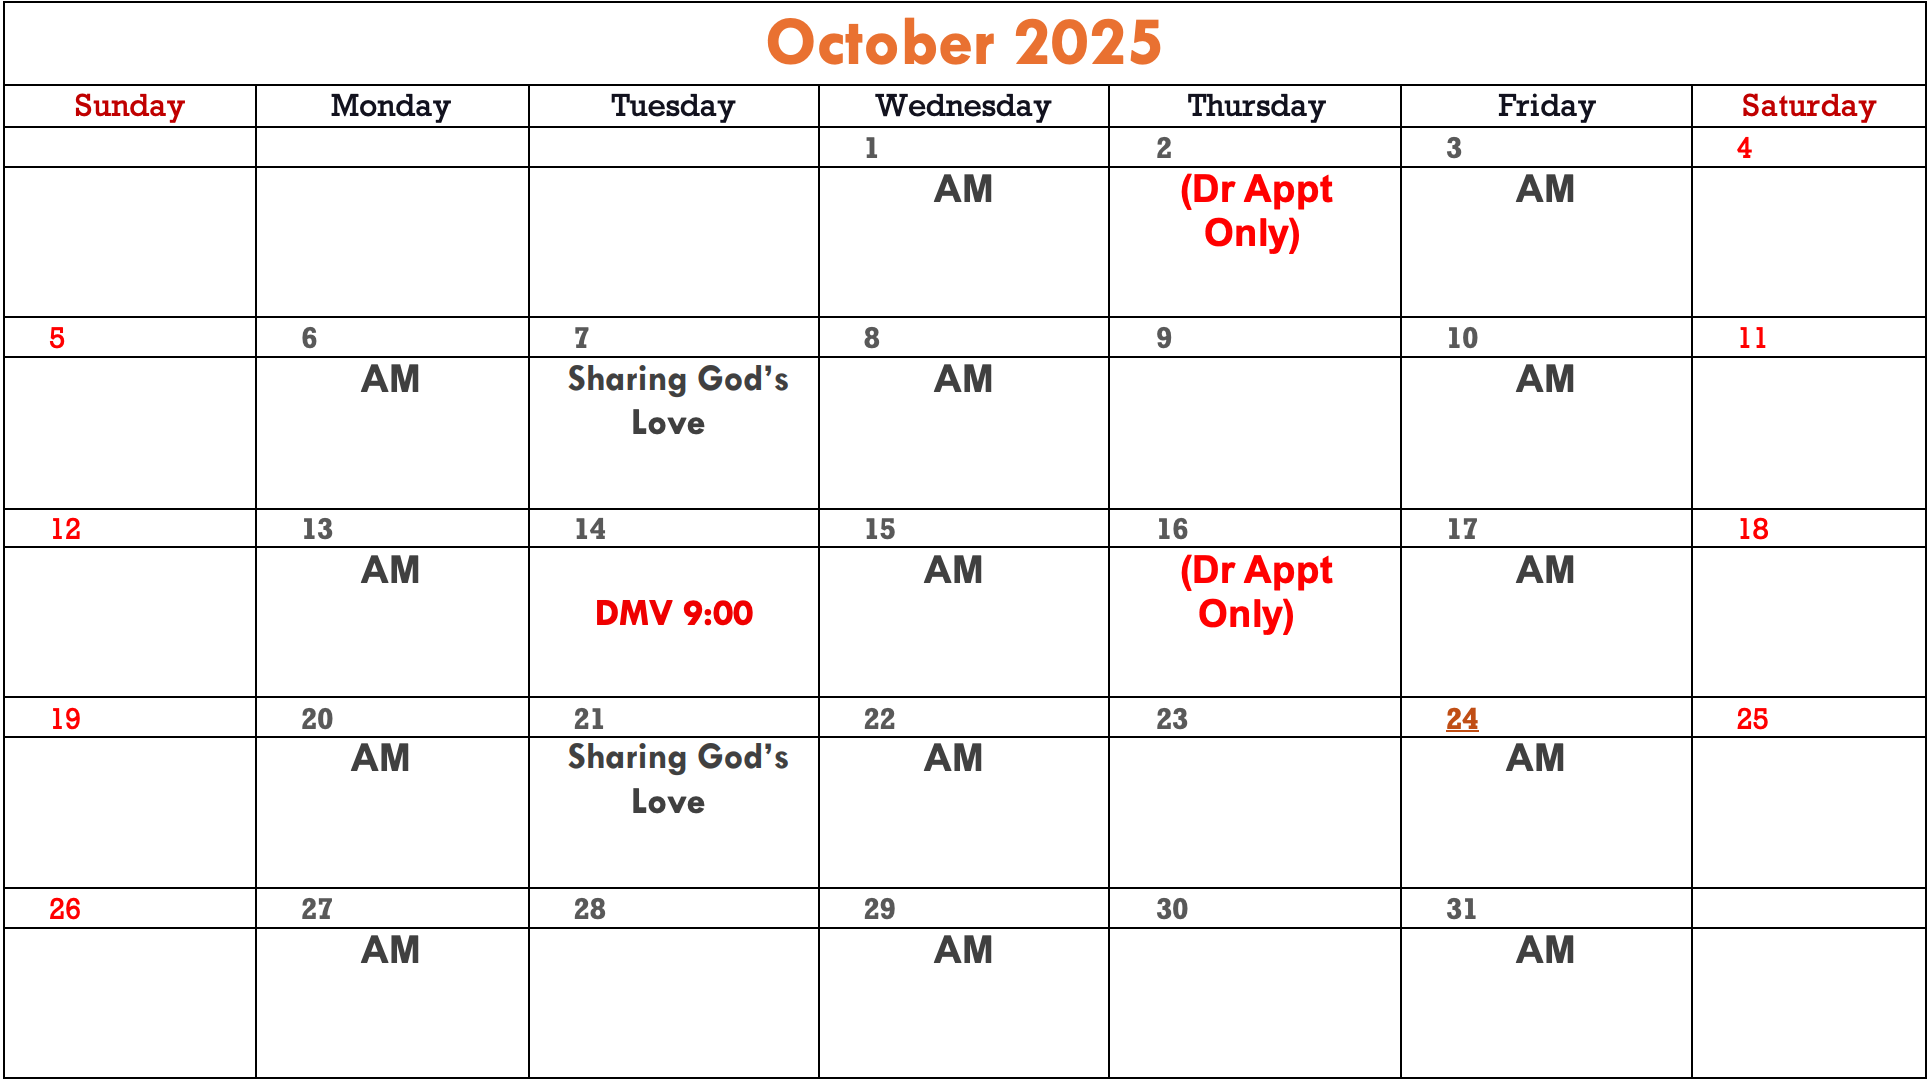
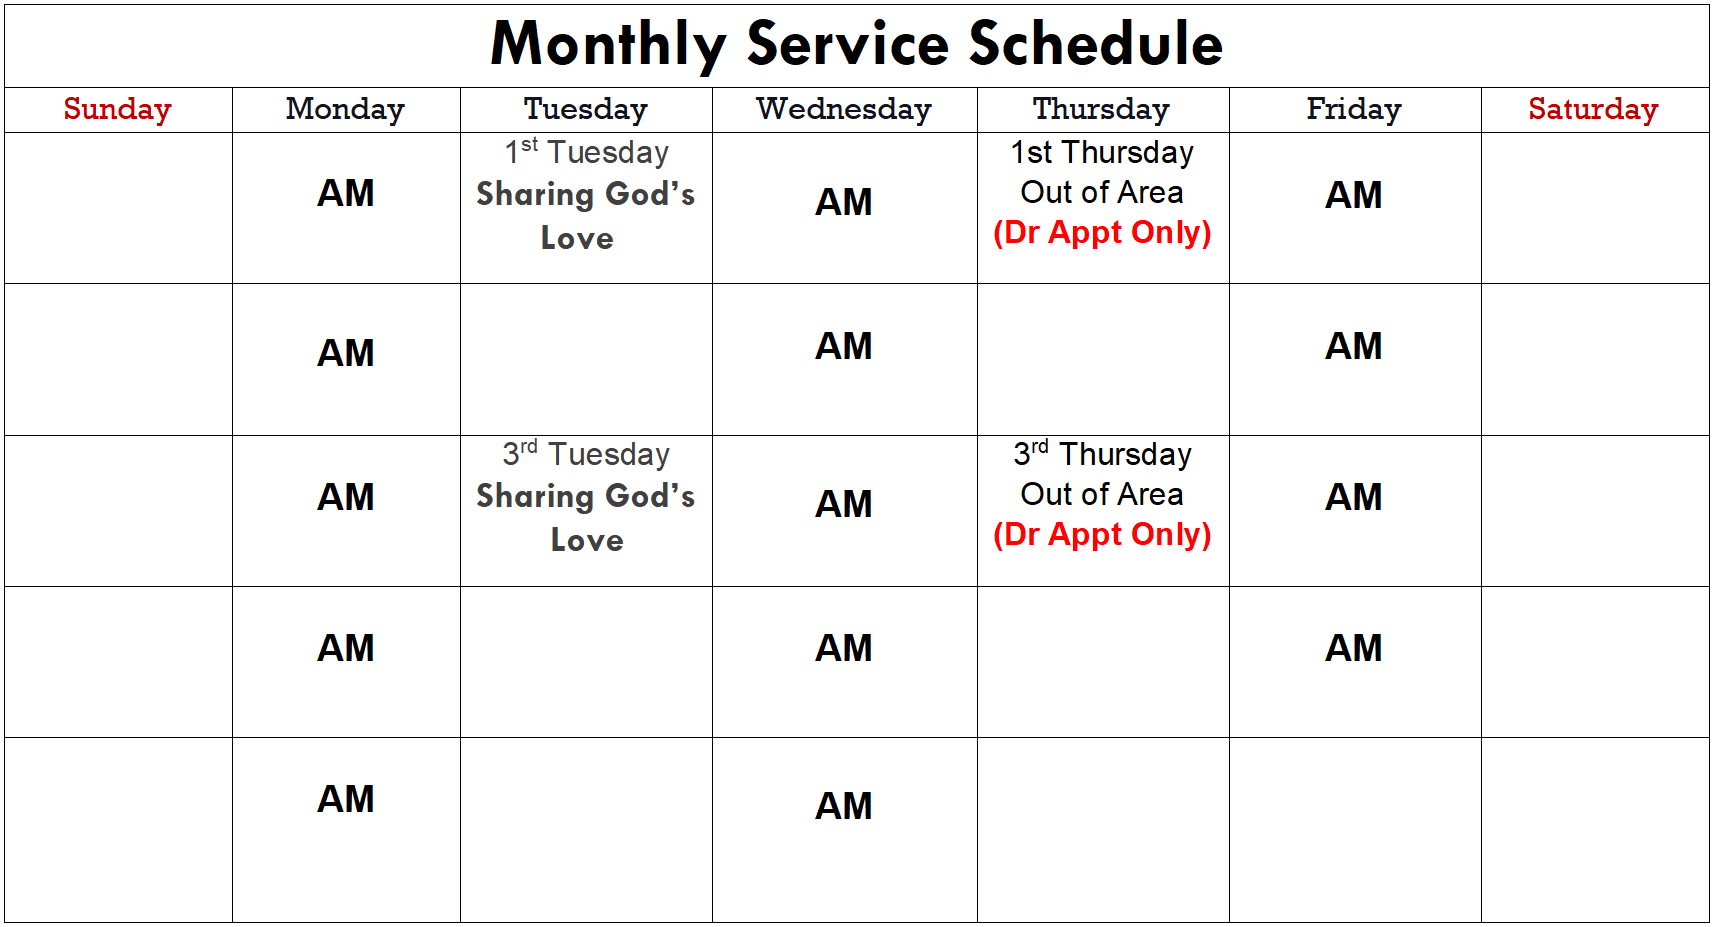
WHL-9 added updated service schedule and a route map

Changed region(s): [[0.0, 0.0, 1.0, 1.0], [0.1857, 0.1812, 0.2167, 0.2416], [0.0, 0.151, 0.031, 0.1812]]

diff --git a/components/ServiceSchedule.tsx b/components/ServiceSchedule.tsx
@@ -22,8 +22,12 @@ export default function ServiceSchedule() {
 
             <div className="mt-10">
                 <h2 className="text-2xl font-semibold mb-3">Service Route Map</h2>
-                <div className="border-2 border-dashed border-gray-300 rounded-xl p-8 text-gray-600 italic">
-                    Route map goes here.
+                <div className="flex justify-center">
+                    <img
+                        src="/images/routemap.png"
+                        alt="Wheels Harbison Service Route Map"
+                        className="shadow-lg w-full max-w-6xl border border-gray-200 rounded-xl"
+                    />
                 </div>
             </div>
         </section>
